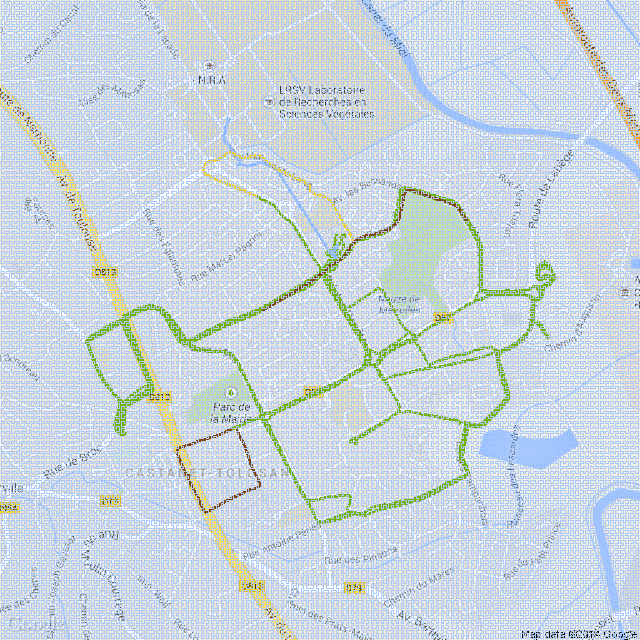
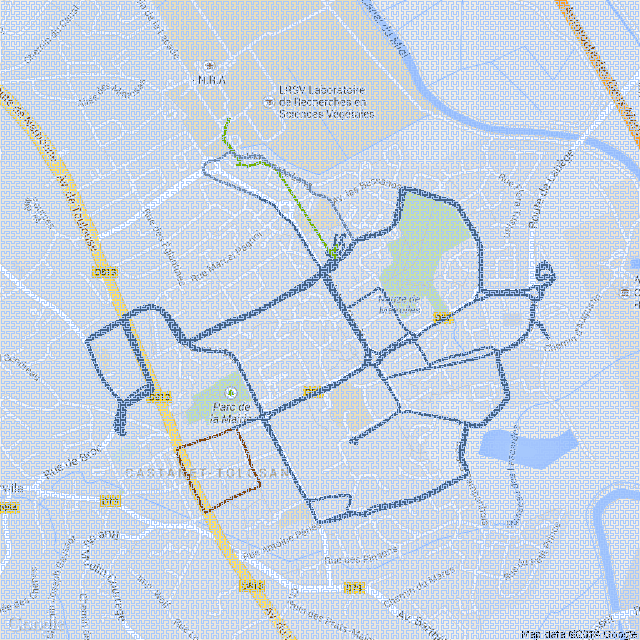
updated the figure for PKDD paper

diff --git a/src/edu/hawaii/jmotif/hilbert/anomaly/CastanetPlotter.java b/src/edu/hawaii/jmotif/hilbert/anomaly/CastanetPlotter.java
@@ -1,0 +1,299 @@
+package edu.hawaii.jmotif.hilbert.anomaly;
+
+import java.awt.BasicStroke;
+import java.awt.Color;
+import java.awt.Graphics;
+import java.awt.Graphics2D;
+import java.awt.Shape;
+import java.awt.geom.Ellipse2D;
+import java.awt.geom.Path2D;
+import java.awt.geom.Point2D;
+import java.awt.image.BufferedImage;
+import java.io.BufferedReader;
+import java.io.BufferedWriter;
+import java.io.File;
+import java.io.FileReader;
+import java.io.FileWriter;
+import java.io.IOException;
+import java.util.ArrayList;
+import javax.imageio.ImageIO;
+import org.jfree.chart.ChartUtilities;
+import org.jfree.chart.JFreeChart;
+import org.jfree.chart.axis.NumberAxis;
+import org.jfree.chart.plot.XYPlot;
+import org.jfree.chart.renderer.xy.XYLineAndShapeRenderer;
+import org.jfree.data.xy.XYSeries;
+import org.jfree.data.xy.XYSeriesCollection;
+import com.google.uzaygezen.core.BitVector;
+import com.google.uzaygezen.core.BitVectorFactories;
+import com.google.uzaygezen.core.CompactHilbertCurve;
+import edu.hawaii.jmotif.hilbert.util.MercatorFactory;
+
+public class CastanetPlotter {
+
+  // define default zoom level
+  private final static double ZOOM_LEVEL = 15.;
+
+  private static final int HILBERT_CURVE_LEVEL = 8;
+
+  private static final double HILBERT_CURVE_SIZE = 639.;
+
+  private static final double GPX_POINT_RADIUS = 1;
+
+  // cadetblue2
+  private static final Color HILBERT_CURVE_COLOR = new Color(142, 229, 239);
+
+  // cornflowerblue
+  private static final Color GPX_PATH_COLOR = Color.BLUE;
+
+  // http://maps.googleapis.com/maps/api/staticmap?center=43.5204,1.5044&zoom=15&size=640x640&sensor=false
+  private static final String STATIC_MAP_FILENAME = "data/period/maps/staticmap_zoom15.png";
+
+  private static final String PATH_FILENAME = "data/anomaly/anomaly_pruned.csv";
+
+  private static final String OUTPUT_PREFIX = "data/anomaly/anomaly_pruned";
+
+  private static final int[] anomaly0 = { 11509, 11878 };
+  private static final Color ANOMALY0_COLOR = Color.RED;
+
+  private static final int[] anomaly1 = { 4659, 5025 };
+  private static final Color ANOMALY1_COLOR = Color.GREEN;
+
+  private static final int[] anomaly2 = { 6536, 6923 };
+  private static final Color ANOMALY2_COLOR = new Color(183, 43, 226);
+
+  private static final int[] anomaly3 = { 14170, 14563 };
+  private static final Color ANOMALY3_COLOR = Color.BLUE;
+
+  // the global variable which keeps the resulting from transform timeseries
+  private static ArrayList<Double> hilbertTS;
+
+  public static void main(String[] args) throws IOException {
+
+    BufferedImage staticMap = getStaticMap();
+
+    ArrayList<Point2D.Double> runningPath = getRunningPath();
+
+    // center point of the generated map
+    //
+    Point2D.Double staticMapCenterLatLng = new Point2D.Double(43.5204, 1.5044);
+
+    // and its location on 256x256 mercator map
+    //
+    Point2D staticMapCentercenter = MercatorFactory.fromLatLngToPoint(staticMapCenterLatLng);
+
+    // subtract half of the map - arrive at the left top corner
+    //
+    Point2D leftTop = new Point2D.Double(staticMapCentercenter.getX() - (HILBERT_CURVE_SIZE / 2.)
+        / Math.pow(2, ZOOM_LEVEL), staticMapCentercenter.getY() - (HILBERT_CURVE_SIZE / 2.)
+        / Math.pow(2, ZOOM_LEVEL));
+
+    // hilbert TS construction
+    //
+    hilbertTS = new ArrayList<Double>();
+    CompactHilbertCurve chc = new CompactHilbertCurve(new int[] { HILBERT_CURVE_LEVEL,
+        HILBERT_CURVE_LEVEL });
+
+    // get the graphics
+    //
+    Graphics graphics = staticMap.getGraphics();
+    graphics.setColor(GPX_PATH_COLOR);
+
+    for (int i = 0; i < runningPath.size(); i++) {
+      Point2D.Double p = runningPath.get(i);
+      // current LatLNg point to X,Y coordinates of 256px MERCATOR map
+      Point2D point = MercatorFactory.fromLatLngToPoint(p);
+      // adjust X and Y according to the current ZOOM level
+      double x = (point.getX() - leftTop.getX()) * Math.pow(2, ZOOM_LEVEL);
+      double y = (point.getY() - leftTop.getY()) * Math.pow(2, ZOOM_LEVEL);
+      // convert X to the hilbert cell index
+      long xx = (long) Math.floor(x / (HILBERT_CURVE_SIZE / Math.pow(2., HILBERT_CURVE_LEVEL)));
+      BitVector vector1 = BitVectorFactories.OPTIMAL.apply(HILBERT_CURVE_LEVEL);
+      vector1.copyFrom(xx);
+      // convert Y to the hilbert cell index
+      long yy = (long) Math.floor(y / (HILBERT_CURVE_SIZE / Math.pow(2., HILBERT_CURVE_LEVEL)));
+      BitVector vector2 = BitVectorFactories.OPTIMAL.apply(HILBERT_CURVE_LEVEL);
+      vector2.copyFrom(yy);
+      // convert cells to the single point on Hilbert interval
+      BitVector chi = BitVectorFactories.OPTIMAL.apply(chc.getSpec().sumBitsPerDimension());
+      BitVector[] point2D = { vector1, vector2 };
+      chc.index(point2D, 0, chi);
+      // save that
+      hilbertTS.add(Long.valueOf(chi.toLong()).doubleValue());
+      // highlight the point on the map
+      Shape theCircle = new Ellipse2D.Double(x - GPX_POINT_RADIUS, y - GPX_POINT_RADIUS,
+          2.0 * GPX_POINT_RADIUS, 2.0 * GPX_POINT_RADIUS);
+      ((Graphics2D) graphics).draw(theCircle);
+    }
+
+    for (int i = 0; i < runningPath.size(); i++) {
+      Point2D.Double p = runningPath.get(i);
+      // current LatLNg point to X,Y coordinates of 256px MERCATOR map
+      Point2D point = MercatorFactory.fromLatLngToPoint(p);
+      // adjust X and Y according to the current ZOOM level
+      double x = (point.getX() - leftTop.getX()) * Math.pow(2, ZOOM_LEVEL);
+      double y = (point.getY() - leftTop.getY()) * Math.pow(2, ZOOM_LEVEL);
+      Shape theCircle = null;
+      // draw the anomaly0
+      if (anomaly0[0] <= i && i < anomaly0[1]) {
+        graphics.setColor(ANOMALY0_COLOR);
+        theCircle = new Ellipse2D.Double(x - GPX_POINT_RADIUS, y - GPX_POINT_RADIUS,
+            2.0 * GPX_POINT_RADIUS, 2.0 * GPX_POINT_RADIUS);
+        ((Graphics2D) graphics).draw(theCircle);
+      }
+
+      // draw the anomaly1
+      if (anomaly1[0] <= i && i < anomaly1[1]) {
+        graphics.setColor(ANOMALY1_COLOR);
+        theCircle = new Ellipse2D.Double(x - GPX_POINT_RADIUS, y - GPX_POINT_RADIUS,
+            2.0 * GPX_POINT_RADIUS, 2.0 * GPX_POINT_RADIUS);
+        ((Graphics2D) graphics).draw(theCircle);
+      }
+
+      // draw the anomaly2
+      if (anomaly2[0] <= i && i < anomaly2[1]) {
+        graphics.setColor(ANOMALY2_COLOR);
+        theCircle = new Ellipse2D.Double(x - GPX_POINT_RADIUS, y - GPX_POINT_RADIUS,
+            2.0 * GPX_POINT_RADIUS, 2.0 * GPX_POINT_RADIUS);
+        ((Graphics2D) graphics).draw(theCircle);
+      }
+
+      // draw the anomaly3
+      if (anomaly3[0] <= i && i < anomaly3[1]) {
+        graphics.setColor(ANOMALY3_COLOR);
+        theCircle = new Ellipse2D.Double(x - GPX_POINT_RADIUS, y - GPX_POINT_RADIUS,
+            2.0 * GPX_POINT_RADIUS, 2.0 * GPX_POINT_RADIUS);
+        ((Graphics2D) graphics).draw(theCircle);
+      }
+    }
+
+    // save the map with path
+    ImageIO.write(staticMap, "png", new File(OUTPUT_PREFIX + "_map.png"));
+
+    // draw the hilbert curve on the map too
+    double dist = HILBERT_CURVE_SIZE;
+    for (int i = HILBERT_CURVE_LEVEL; i > 0; i--) {
+      dist = dist / 2;
+    }
+    Path2D hilbertPath = new Path2D.Double();
+    hilbertPath.moveTo(dist / 2, dist / 2);
+    HilbertA(HILBERT_CURVE_LEVEL, hilbertPath, dist); // start recursion
+    graphics.setColor(HILBERT_CURVE_COLOR);
+    ((Graphics2D) graphics).draw(hilbertPath);
+    graphics.dispose();
+
+    ImageIO.write(staticMap, "png", new File(OUTPUT_PREFIX + "_map_and_hilbert.png"));
+
+    // create a chart of the curve and save the curve into CSV too
+    //
+    XYSeries dataset = new XYSeries("Series");
+    int size = hilbertTS.size();
+    for (int i = 0; i < size; i++) {
+      dataset.add(i, hilbertTS.get(i).floatValue());
+    }
+    XYSeriesCollection chartXYSeriesCollection = new XYSeriesCollection(dataset);
+    // set the renderer
+    //
+    XYLineAndShapeRenderer xyRenderer = new XYLineAndShapeRenderer(true, false);
+    xyRenderer.setSeriesPaint(0, new Color(0, 0, 238));
+    xyRenderer.setBaseStroke(new BasicStroke(3));
+    // X - the time axis
+    //
+    NumberAxis timeAxis = new NumberAxis();
+    timeAxis.setLabel("Time");
+    // Y axis
+    //
+    NumberAxis valueAxis = new NumberAxis("Hilbert cell index");
+    valueAxis.setAutoRangeIncludesZero(false);
+    valueAxis.setLabel("Hilbert cell index");
+    // put these into collection of dots
+    //
+    XYPlot timeseriesPlot = new XYPlot(chartXYSeriesCollection, timeAxis, valueAxis, xyRenderer);
+    // finally, create the chart
+    JFreeChart chart = new JFreeChart("Hilbert curve for " + OUTPUT_PREFIX,
+        JFreeChart.DEFAULT_TITLE_FONT, timeseriesPlot, false);
+    ChartUtilities.saveChartAsPNG(new File(OUTPUT_PREFIX + "_hilbert_curve.png"), chart, 1280, 250);
+
+    BufferedWriter bw = new BufferedWriter(new FileWriter(new File(OUTPUT_PREFIX
+        + "_hilbert_curve.csv")));
+    for (int i = 0; i < hilbertTS.size(); i++) {
+      bw.write(i + "," + hilbertTS.get(i) + "\n");
+    }
+    bw.close();
+  }
+
+  private static ArrayList<Point2D.Double> getRunningPath() throws NumberFormatException,
+      IOException {
+    // load coordinates from CSV
+    //
+    // lat,lon,time,hrm,kph,bearing,km
+    //
+    ArrayList<Point2D.Double> points = new ArrayList<>();
+    BufferedReader br = new BufferedReader(new FileReader(new File(PATH_FILENAME)));
+    String line = br.readLine();
+    while ((line = br.readLine()) != null) {
+      if (line.trim().length() == 0) {
+        continue;
+      }
+      String[] split = line.trim().split(",|\\s+");
+      points.add(new Point2D.Double(Double.valueOf(split[0]), Double.valueOf(split[1])));
+    }
+    br.close();
+    return points;
+  }
+
+  private static BufferedImage getStaticMap() throws IOException {
+    // http://maps.googleapis.com/maps/api/staticmap?center=43.3068,0.5705&zoom=8&size=500x500&sensor=false
+    BufferedImage img = ImageIO.read(new File(STATIC_MAP_FILENAME));
+    return img;
+  }
+
+  private static void HilbertA(int level, Path2D path, double dist) {
+    if (level > 0) {
+      HilbertB(level - 1, path, dist);
+      path.lineTo(path.getCurrentPoint().getX(), path.getCurrentPoint().getY() + dist);
+      HilbertA(level - 1, path, dist);
+      path.lineTo(path.getCurrentPoint().getX() + dist, path.getCurrentPoint().getY());
+      HilbertA(level - 1, path, dist);
+      path.lineTo(path.getCurrentPoint().getX(), path.getCurrentPoint().getY() - dist);
+      HilbertC(level - 1, path, dist);
+    }
+  }
+
+  private static void HilbertB(int level, Path2D path, double dist) {
+    if (level > 0) {
+      HilbertA(level - 1, path, dist);
+      path.lineTo(path.getCurrentPoint().getX() + dist, path.getCurrentPoint().getY());
+      HilbertB(level - 1, path, dist);
+      path.lineTo(path.getCurrentPoint().getX(), path.getCurrentPoint().getY() + dist);
+      HilbertB(level - 1, path, dist);
+      path.lineTo(path.getCurrentPoint().getX() - dist, path.getCurrentPoint().getY());
+      HilbertD(level - 1, path, dist);
+    }
+  }
+
+  private static void HilbertC(int level, Path2D path, double dist) {
+    if (level > 0) {
+      HilbertD(level - 1, path, dist);
+      path.lineTo(path.getCurrentPoint().getX() - dist, path.getCurrentPoint().getY());
+      HilbertC(level - 1, path, dist);
+      path.lineTo(path.getCurrentPoint().getX(), path.getCurrentPoint().getY() - dist);
+      HilbertC(level - 1, path, dist);
+      path.lineTo(path.getCurrentPoint().getX() + dist, path.getCurrentPoint().getY());
+      HilbertA(level - 1, path, dist);
+    }
+  }
+
+  private static void HilbertD(int level, Path2D path, double dist) {
+    if (level > 0) {
+      HilbertC(level - 1, path, dist);
+      path.lineTo(path.getCurrentPoint().getX(), path.getCurrentPoint().getY() - dist);
+      HilbertD(level - 1, path, dist);
+      path.lineTo(path.getCurrentPoint().getX() - dist, path.getCurrentPoint().getY());
+      HilbertD(level - 1, path, dist);
+      path.lineTo(path.getCurrentPoint().getX(), path.getCurrentPoint().getY() + dist);
+      HilbertB(level - 1, path, dist);
+    }
+  }
+
+}
